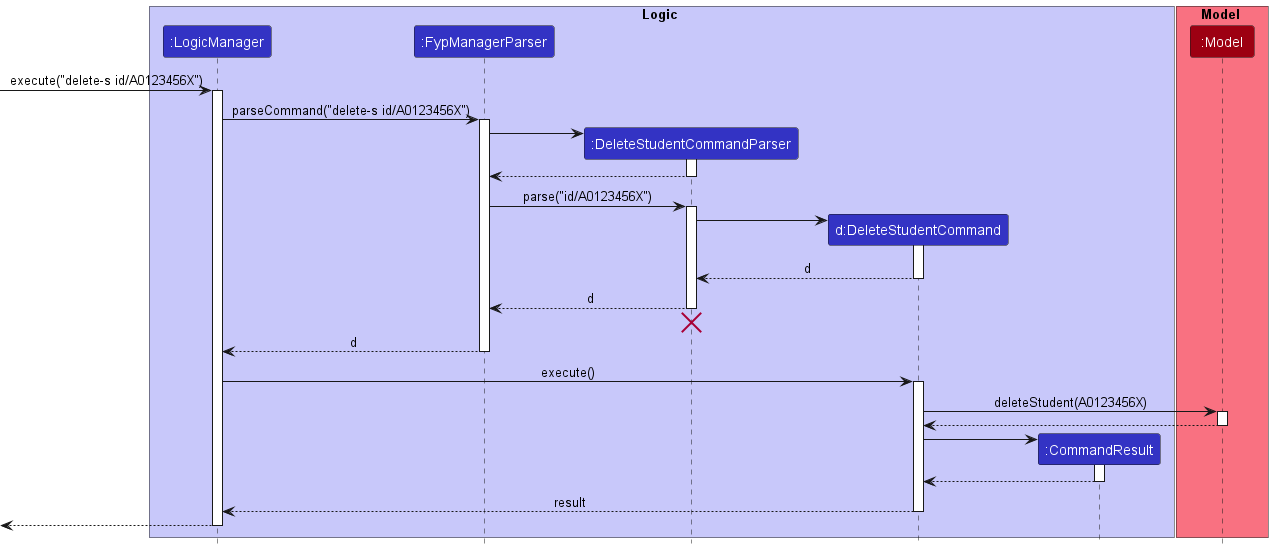
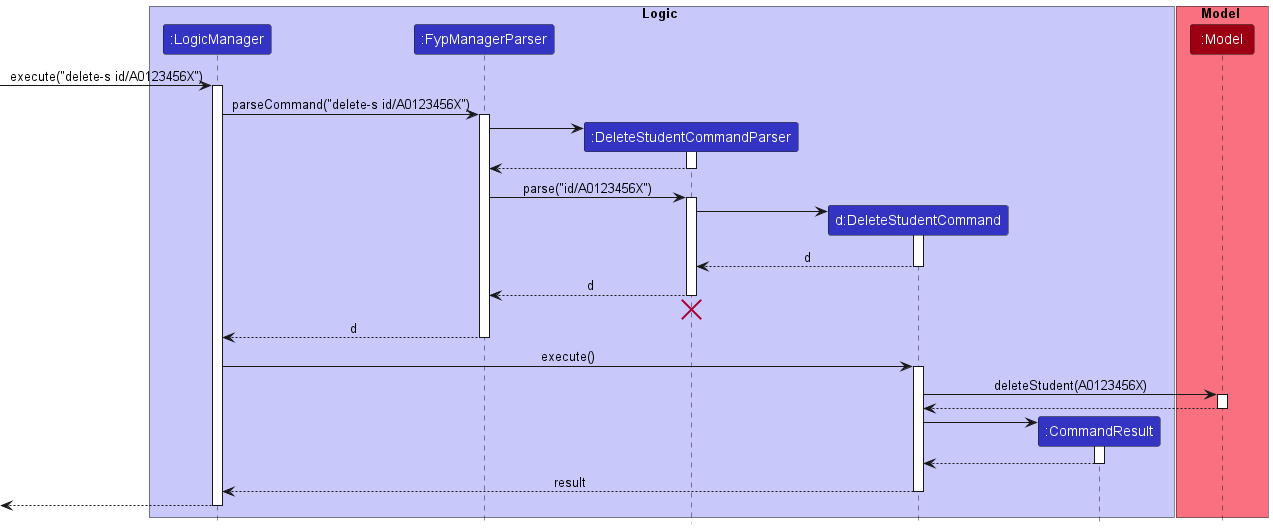
Add Activity Diagram and Sequence Diagram to delete command in Developer Guide

diff --git a/docs/DeveloperGuide.md b/docs/DeveloperGuide.md
@@ -184,6 +184,45 @@ The following activity diagram summarizes what happens when a user executes an a
 #### Design considerations
 An add student command is designed to add a single student along with its detail particulars such as one's student ID, student name, project name, and email. These details are the important details every professor needs from a student so that the professor can understand the work of the student and is able to contact the student when needed.
 
+
+### Deleting a student from the FYP manager
+This feature allows professors to delete students who have dropped their FYP
+
+#### Implementation details
+
+The borrow feature is facilitated by `DeleteStudentCommandParser` and `DeleteStudentCommand`. The operation is exposed in the `Model` interface as `Model#DeleteStudent()`.
+
+Given below is an example usage scenario and how the borrow mechanism behaves at each step:
+
+1. The user enters delete student command and provides the student id of student to be deleted.
+2. `FYPManagerParser` creates a new `DeleteStudentCommandParser` after preliminary processing of user input.
+3. `DeleteStudentCommandParser` creates a new `DeleteStudentCommand` based on the processed input.
+4. `LogicManager` executes the `DeleteStudentCommand`.
+5. `DeleteStudentCommand` calls `Model#getFilteredStudentList()` to get the list of student with FYP, and then gets the student at the specified index using the unique studentId.
+6. `DeleteStudentCommand` calls `Model#DeleteStudent()` and passes the studentID, and return student deleted as parameters.
+7. Finally, `DeleteStudentCommand` creates a `CommandResult` and returns it to `LogicManager` to complete the command.
+
+
+The following sequence diagram shows how delete student command works:
+
+<img src="images/DeleteStudentSequenceDiagram.png" width="550" />
+
+<div markdown="span" class="alert alert-info">:information_source: **Note:** The lifeline for `DeleteStudentCommand` should end at the destroy marker (X) but due to a limitation of PlantUML, the lifeline reaches the end of diagram.
+
+</div>
+
+The following activity diagram summarizes what happens when a user executes a delete student command.
+
+<img src="images/DeleteStudentActivityDiagram.png" width="550" />
+
+#### Design considerations
+
+The delete student command is designed to be used in conjunction with find student command. For instance, the user would first use find student using project name to find the student taking FYP using `find machine`
+to find students taking machine learning projects before doing `delete-s id/A0123456X` to remove student from FYP Manager.
+
+This integration between delete student command with find student command is important because FYPManager can store large number of students with FYP, making it not fesiable for users to scroll through the list.
+By utilizing find student, users can find the student with only partial information and retrieve the student id. Using this student id, users can delete the student from the FYPManager once he/she drops the FYP.
+
 ### \[Proposed\] Undo/redo feature
 
 #### Proposed Implementation
